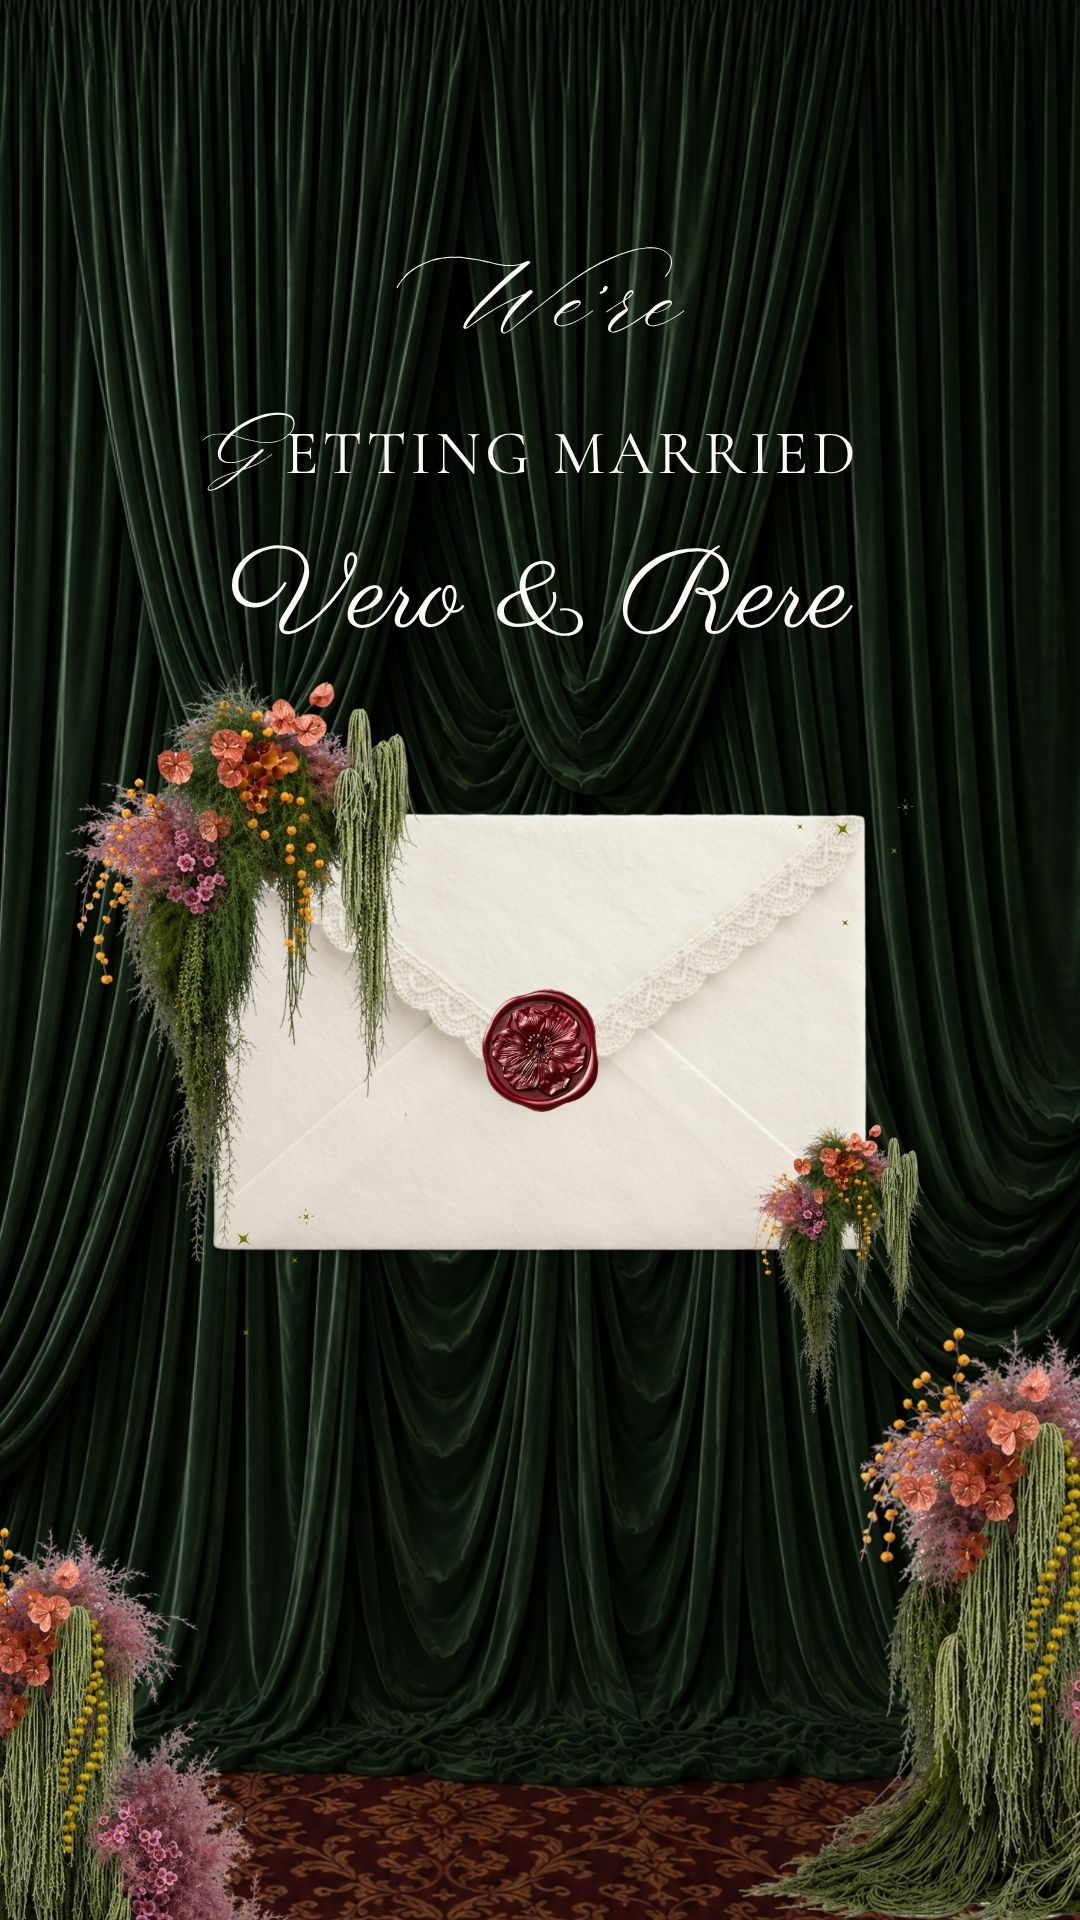
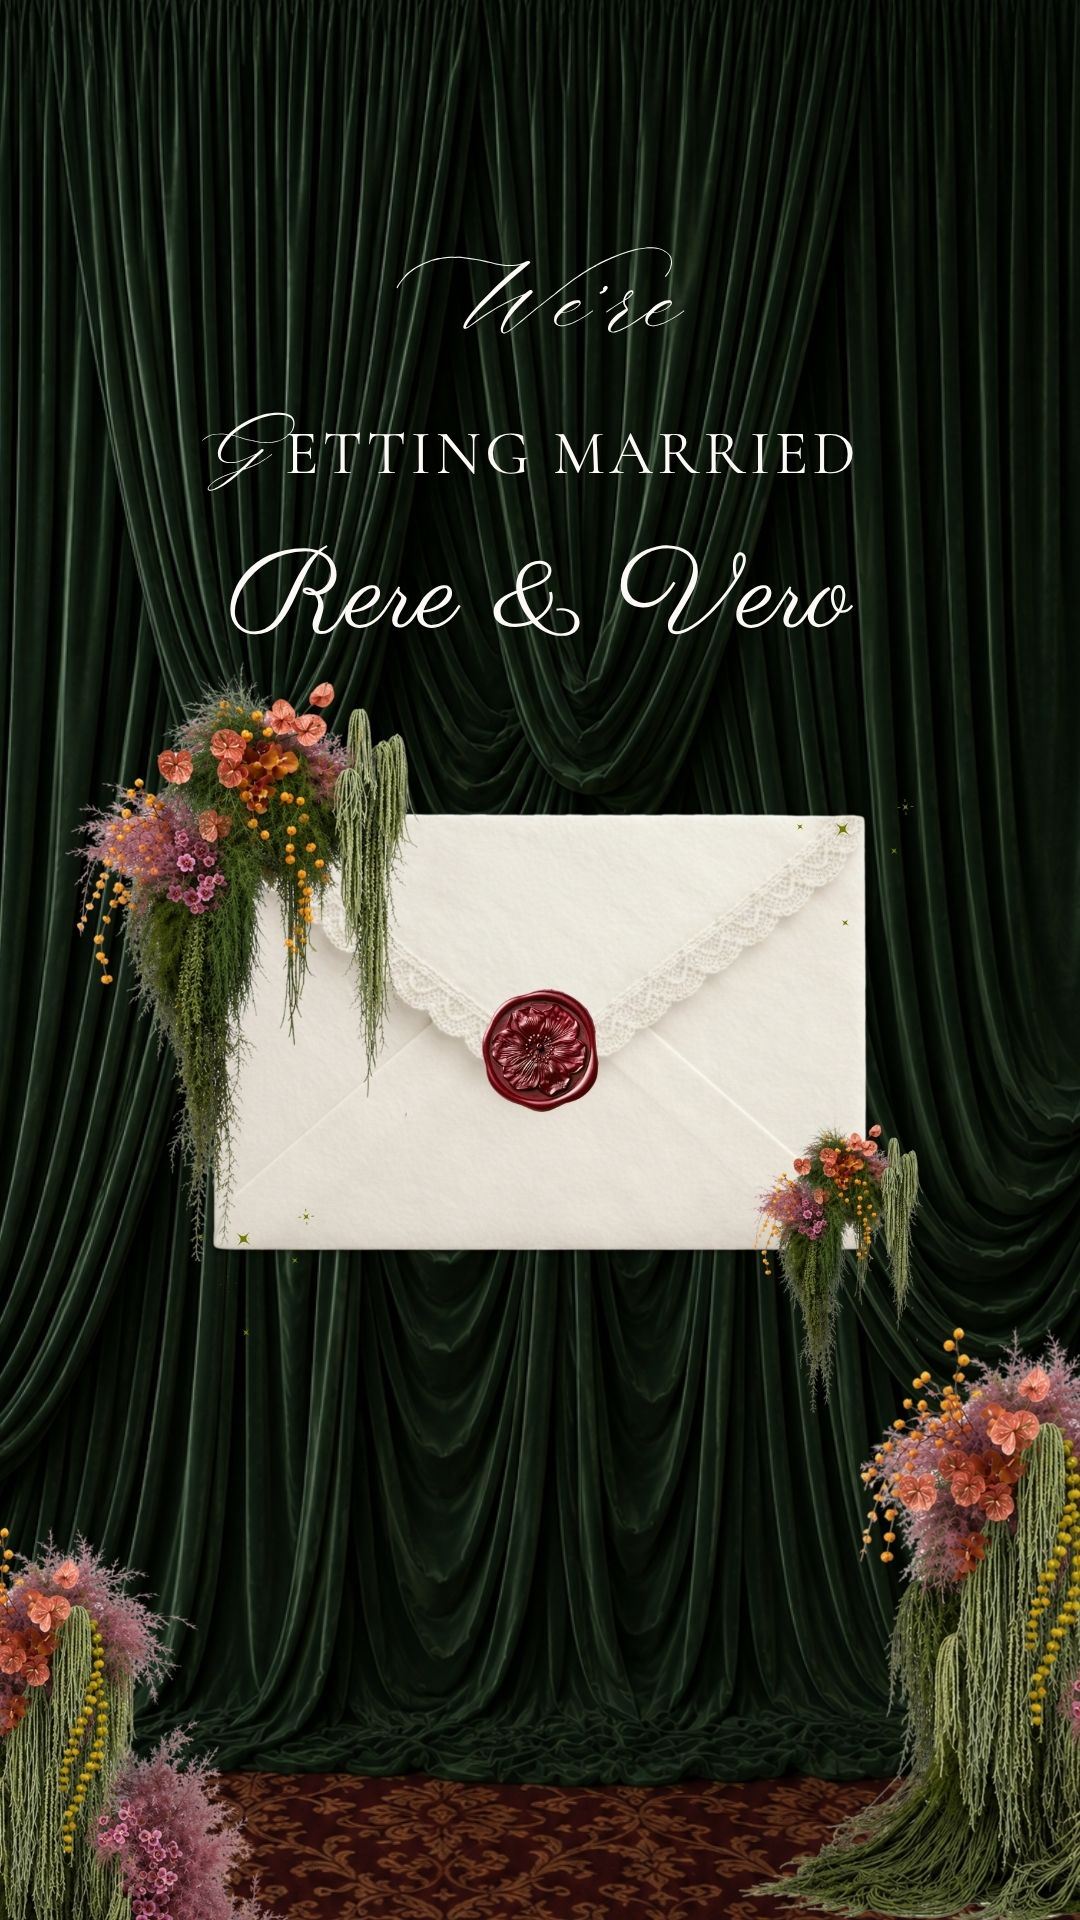
Add files via upload

Changed region(s): [[0.2139, 0.2812, 0.4278, 0.3438], [0.5806, 0.2812, 0.7944, 0.3438], [0.4583, 0.2812, 0.55, 0.3438]]

diff --git a/vero-rere/index.html b/vero-rere/index.html
@@ -3,11 +3,11 @@
 <head>
 <meta charset="UTF-8">
 <meta name="viewport" content="width=device-width, initial-scale=1.0">
-<title>Vero & Rere</title>
+<title>Rere & Vero</title>
 
 <!-- Open Graph -->
 <meta property="og:title"
-content="Vero & Rere">
+content="Rere & Vero">
 
 <meta property="og:image"
 content="https://inv.pleasurein.my.id/vero-rere/cover.jpg">
